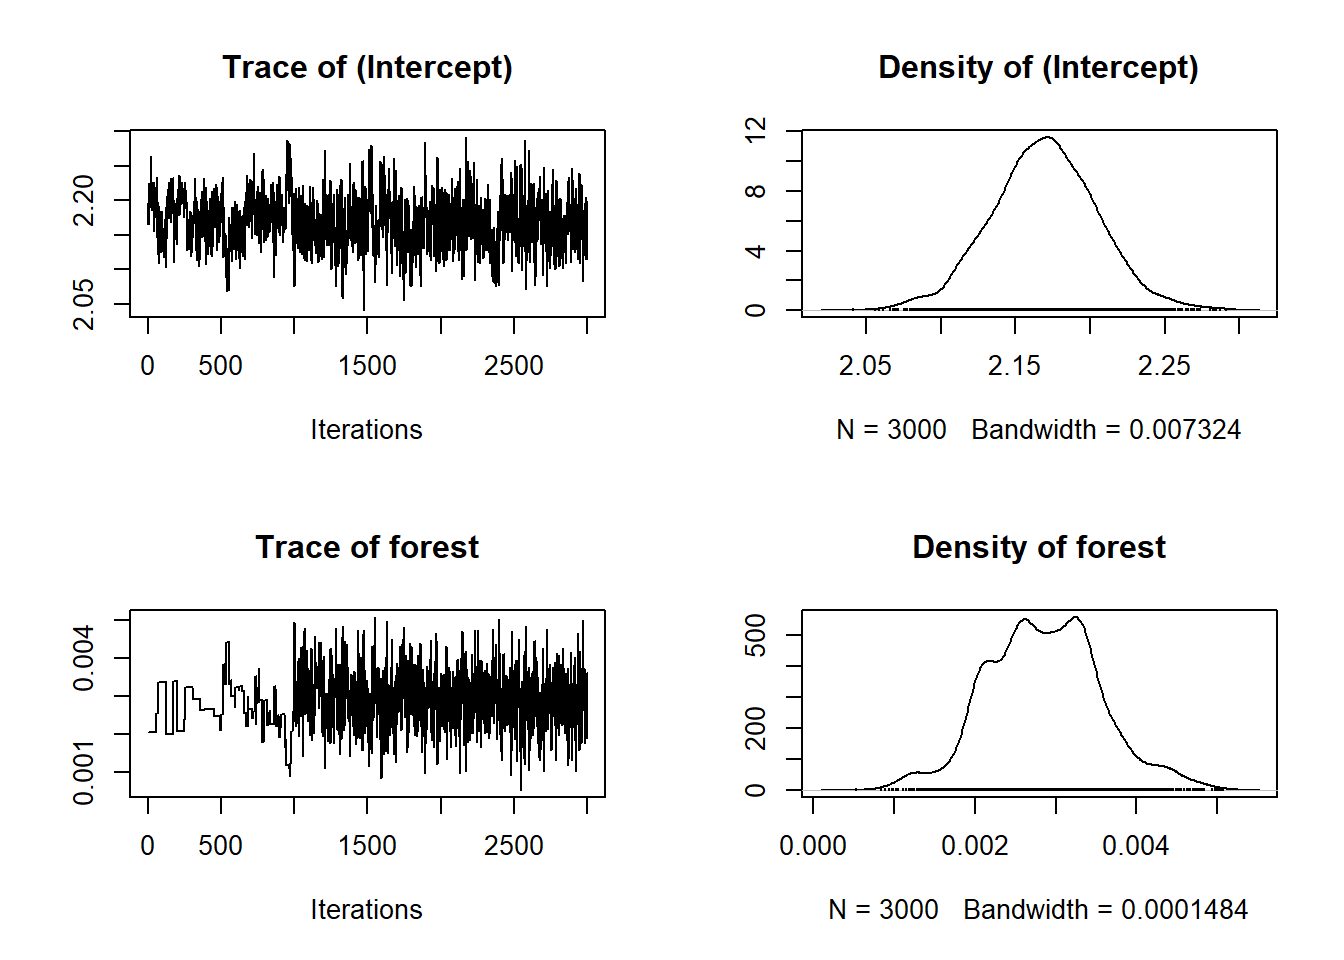
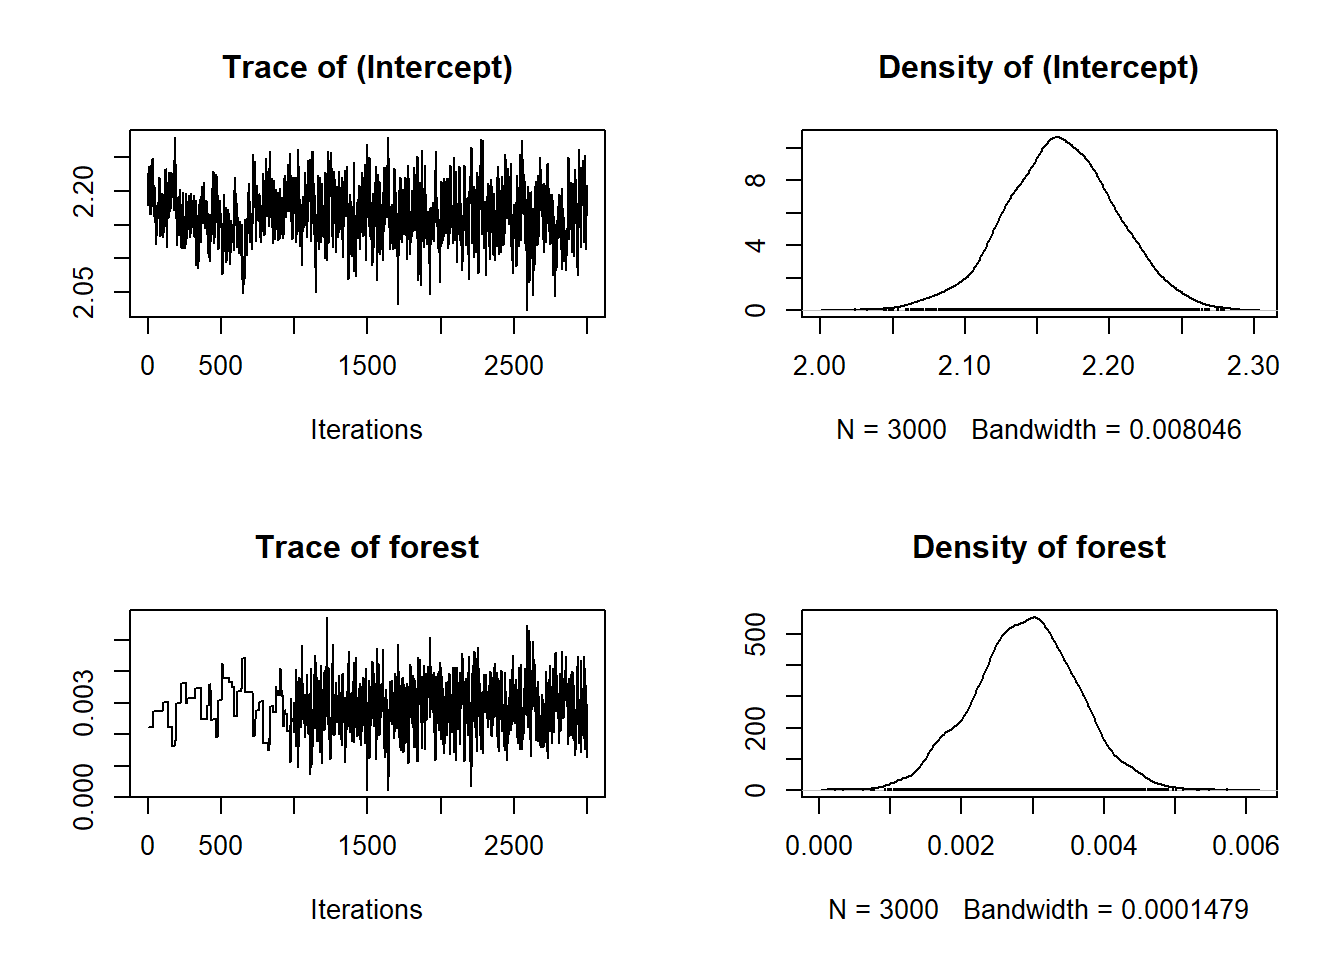
Tres

diff --git a/docs/spAbundance.html b/docs/spAbundance.html
@@ -104,11 +104,11 @@ pre > code.sourceCode > span > a:first-child::before { text-decoration: underlin
 </header>
 
 
-<section id="introducción-a-los-modelos-de-abundancia" class="level2">
-<h2 class="anchored" data-anchor-id="introducción-a-los-modelos-de-abundancia">Introducción a los modelos de abundancia</h2>
-</section>
-<section id="el-paquete-de-r-unmarked" class="level2">
-<h2 class="anchored" data-anchor-id="el-paquete-de-r-unmarked"><strong>EL Paquete de R <code>unmarked</code></strong></h2>
+<section id="introducción-a-spabundance" class="level2">
+<h2 class="anchored" data-anchor-id="introducción-a-spabundance">Introducción a spAbundance</h2>
+<p><a href="https://doi.org/10.1111/2041-210X.14332">spAbundance: An R package for single-species and multi-species spatially explicit abundance models</a></p>
+<p><a href="https://doserlab.com/files/spabundance-web/">Sitio oficial</a></p>
+<p>spAbundance ajusta modelos espaciales N-mixture univariados (es decir, de una sola especie) y multivariados (es decir, de múltiples especies), modelos jerárquicos de muestreo por distancia y modelos lineales generalizados mixtos utilizando el método de Markov Chain Monte Carlo (MCMC). Los modelos espaciales se ajustan utilizando Nearest Neighbor Gaussian Processes (NNGPs) para facilitar el ajuste del modelo en conjuntos de datos espaciales grandes.</p>
 </section>
 <section id="ejercicio" class="level2">
 <h2 class="anchored" data-anchor-id="ejercicio">Ejercicio</h2>
@@ -246,7 +246,7 @@ the largest estimated abundance value at each site in object$N.samples</code></p
 </div>
 <div class="cell-output cell-output-stdout">
 <pre><code>       elpd          pD        WAIC 
--2998.56396    13.48234  6024.09258 </code></pre>
+-2998.67959    13.18504  6023.72926 </code></pre>
 </div>
 <div class="sourceCode cell-code" id="cb15"><pre class="sourceCode r code-with-copy"><code class="sourceCode r"><span id="cb15-1"><a href="#cb15-1" aria-hidden="true" tabindex="-1"></a><span class="fu">waicAbund</span>(model.det_time)</span></code><button title="Copy to Clipboard" class="code-copy-button"><i class="bi"></i></button></pre></div>
 <div class="cell-output cell-output-stderr">
@@ -255,7 +255,7 @@ the largest estimated abundance value at each site in object$N.samples</code></p
 </div>
 <div class="cell-output cell-output-stdout">
 <pre><code>       elpd          pD        WAIC 
--2852.10022    15.56754  5735.33552 </code></pre>
+-2851.96171    15.94424  5735.81190 </code></pre>
 </div>
 <div class="sourceCode cell-code" id="cb18"><pre class="sourceCode r code-with-copy"><code class="sourceCode r"><span id="cb18-1"><a href="#cb18-1" aria-hidden="true" tabindex="-1"></a><span class="fu">waicAbund</span>(model.det_date)</span></code><button title="Copy to Clipboard" class="code-copy-button"><i class="bi"></i></button></pre></div>
 <div class="cell-output cell-output-stderr">
@@ -264,7 +264,7 @@ the largest estimated abundance value at each site in object$N.samples</code></p
 </div>
 <div class="cell-output cell-output-stdout">
 <pre><code>     elpd        pD      WAIC 
--2341.609  6809.416 18302.050 </code></pre>
+-2224.053  2320.422  9088.950 </code></pre>
 </div>
 <div class="sourceCode cell-code" id="cb21"><pre class="sourceCode r code-with-copy"><code class="sourceCode r"><span id="cb21-1"><a href="#cb21-1" aria-hidden="true" tabindex="-1"></a><span class="fu">waicAbund</span>(model.det_dur)</span></code><button title="Copy to Clipboard" class="code-copy-button"><i class="bi"></i></button></pre></div>
 <div class="cell-output cell-output-stderr">
@@ -273,7 +273,7 @@ the largest estimated abundance value at each site in object$N.samples</code></p
 </div>
 <div class="cell-output cell-output-stdout">
 <pre><code>     elpd        pD      WAIC 
--2696.341  1339.095  8070.873 </code></pre>
+-2614.576  1307.264  7843.680 </code></pre>
 </div>
 </div>
 </section>
@@ -355,17 +355,17 @@ Burn-in: 5000
 Thinning Rate: 5
 Number of Chains: 3
 Total Posterior Samples: 3000
-Run Time (min): 0.6307
+Run Time (min): 0.716
 
 Abundance (log scale): 
               Mean     SD   2.5%    50%  97.5%   Rhat ESS
-(Intercept) 2.1692 0.0353 2.0988 2.1696 2.2391 1.0699 273
-forest      0.0028 0.0007 0.0015 0.0029 0.0044 1.1413 188
+(Intercept) 2.1665 0.0380 2.0889 2.1663 2.2407 1.0045 230
+forest      0.0029 0.0007 0.0015 0.0029 0.0043 1.0092 255
 
 Detection (logit scale): 
                Mean     SD    2.5%     50%   97.5%   Rhat ESS
-(Intercept)  1.8045 0.1077  1.5770  1.8051  2.0130 1.0647 106
-det.cov.1   -0.5464 0.0372 -0.6173 -0.5460 -0.4675 1.0645 130</code></pre>
+(Intercept)  1.8194 0.1237  1.5777  1.8187  2.0670 1.0345  76
+det.cov.1   -0.5518 0.0412 -0.6330 -0.5521 -0.4698 1.0408  80</code></pre>
 </div>
 </div>
 </div>
